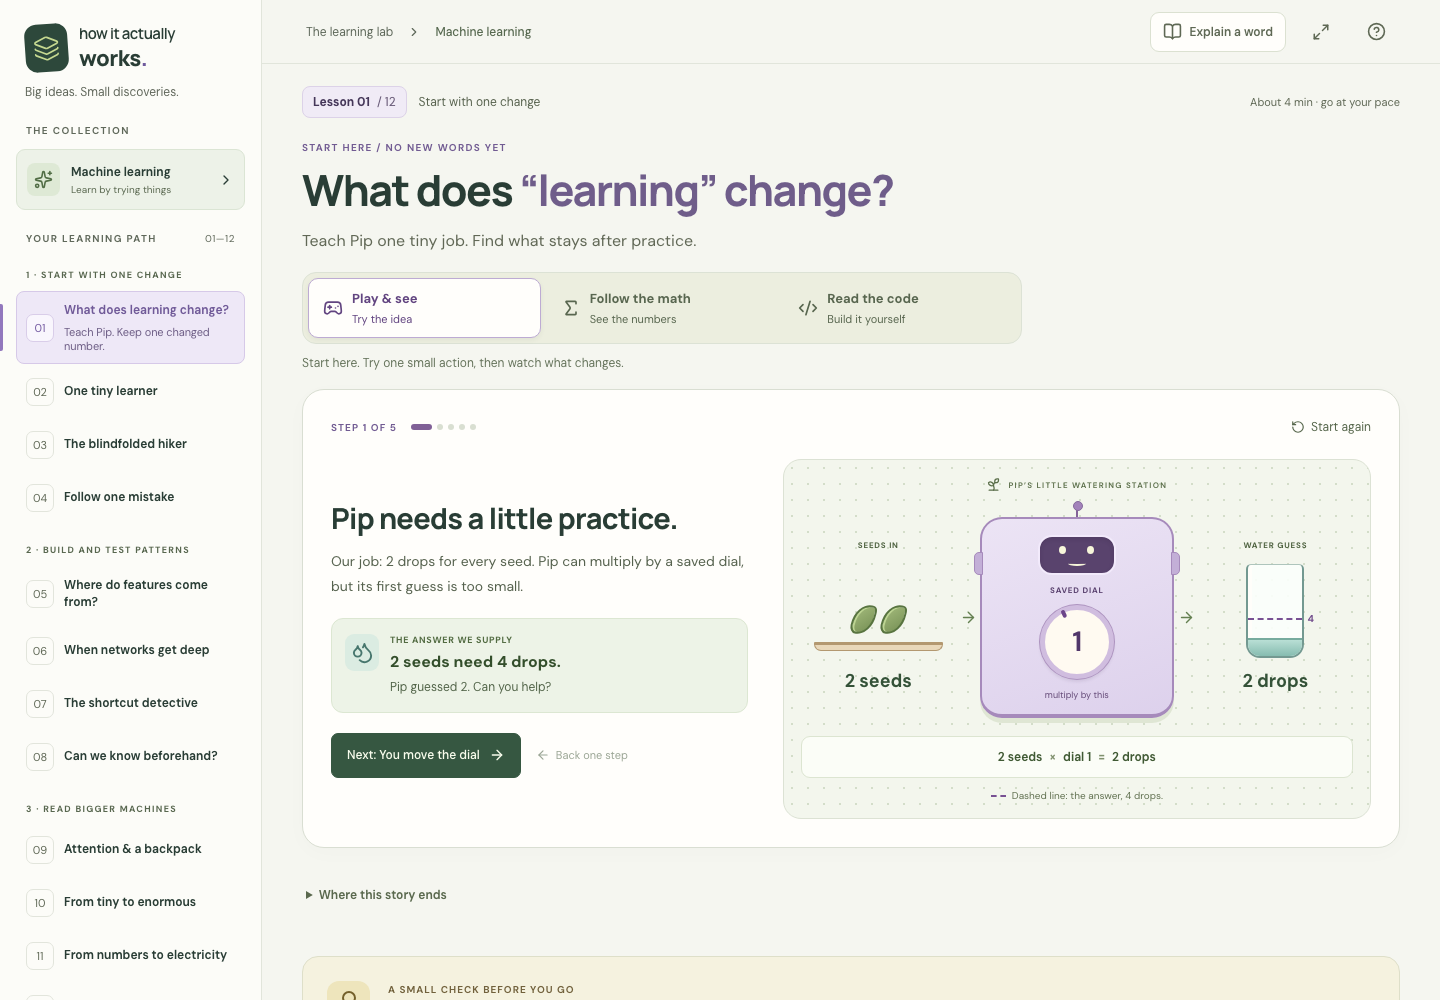
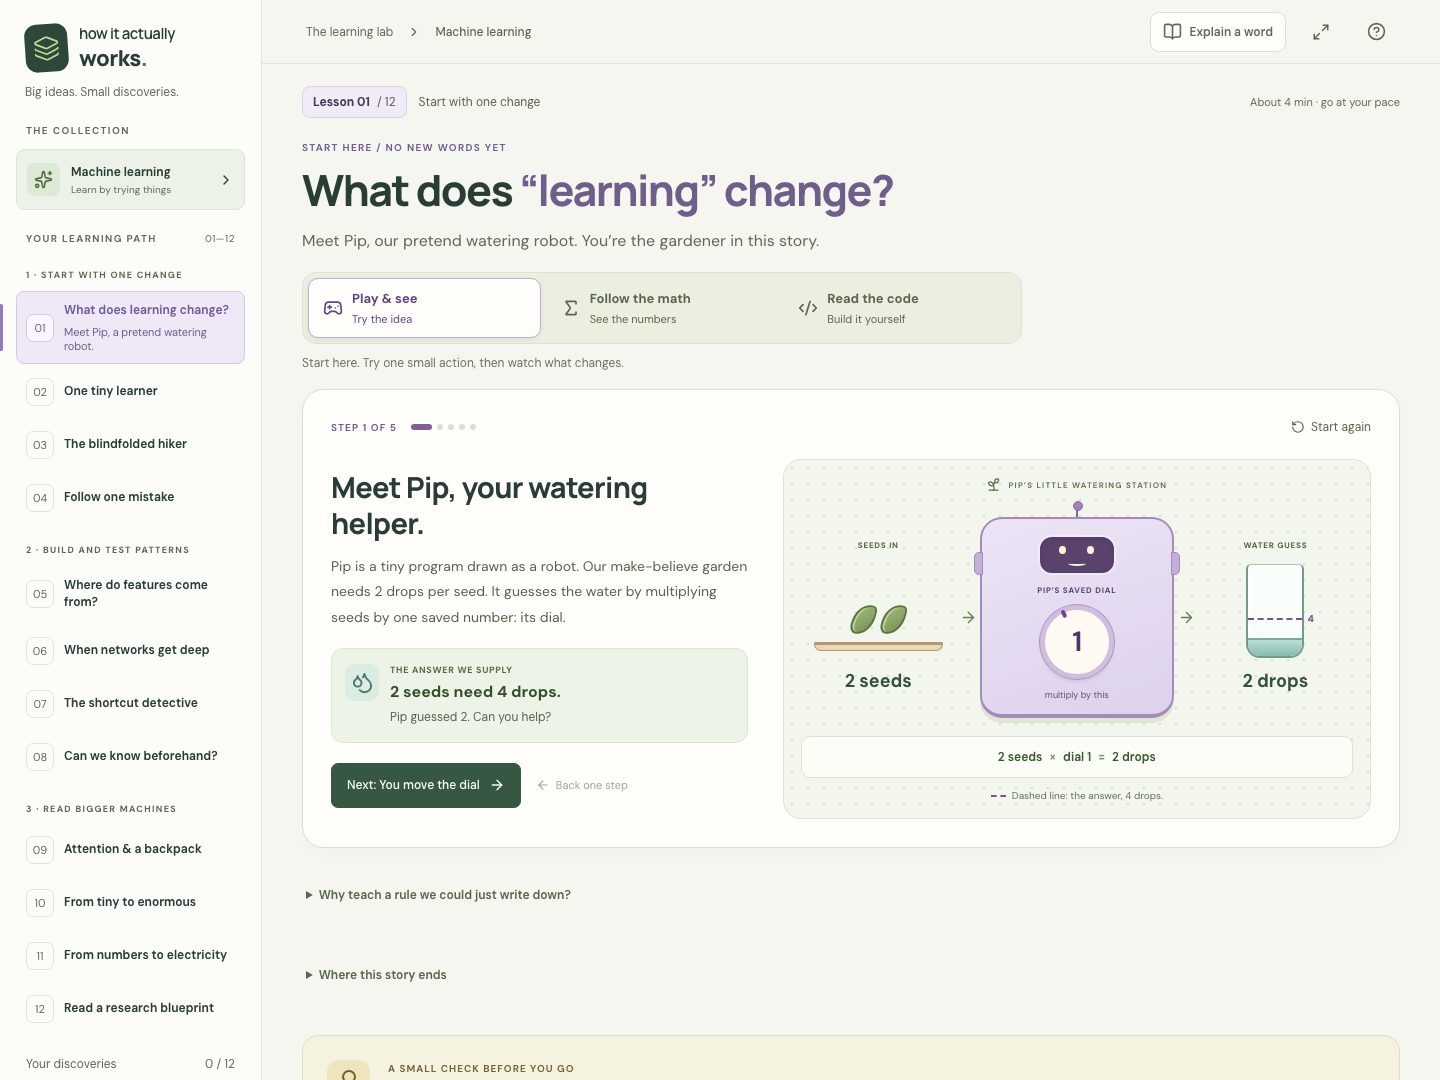
Update teaching guidance and screenshots for the clearer learning stories

diff --git a/docs/creating-lessons.md b/docs/creating-lessons.md
@@ -13,6 +13,8 @@ Write one sentence describing the uncertainty: “Why does changing this number 
 
 Begin with an action the learner already understands. Introduce its technical name after the learner can describe the action. [FirstSteps.tsx](../src/components/FirstSteps.tsx) does this with a watering dial: only after practice does it name input, target, weight, training, and inference.
 
+Introduce the story before giving its instructions. Name the character, explain what it represents, give the learner a role, and state the task and answer source. “Teach Pip” only works after “Pip is a pretend watering robot, a picture of a tiny program; you are the gardener.” Put that context in the opening, not only in an expandable limitation at the bottom. When an example changes, introduce the new task and explain its numbers again. A direct chapter link or a switch straight to math/code should still make sense.
+
 Use a familiar analogy if it helps, then connect each part to a concrete quantity. Make clear where the analogy ends. A neuron is not a little person making a decision; a transistor sketch is not a complete circuit simulator.
 
 ## Build outward from inspectable code
@@ -67,7 +69,7 @@ The shared [LessonRecap.tsx](../src/components/LessonRecap.tsx) asks one questio
 
 Use native buttons, inputs, selects, and expandable sections where possible. SVG diagrams need a title and description. If a point or node is selectable, provide a keyboard route to it; an HTML selector can complement the graphic. Do not communicate a class or state through color alone. Use text, shape, or line style as well.
 
-Check narrow layouts, long labels, zoom, keyboard focus, and reduced-motion preferences. A detailed arithmetic table may scroll within its own container; the whole page should not require horizontal scrolling. A paused or completed state should be understandable without watching the preceding animation.
+Check narrow layouts, long labels, zoom, keyboard focus, and reduced-motion preferences. A detailed arithmetic table may scroll within its own container; the whole page should not require horizontal scrolling. Code lines must stack vertically with indentation preserved. The shared reader wraps long lines by default, offers a wrap toggle, and scrolls its source panel to the explained lines without moving the whole page. Copy must preserve the original source, excluding line numbers. A paused or completed state should be understandable without watching the preceding animation.
 
 Make the math match the moment being described. A “last update” panel needs the weight, gradient, and learning rate from that update, even if the learner subsequently moves the rate slider. Rounded values should be identified as rounded. With multiple examples, distinguish a single-example derivative from the batch average used for training.
 

diff --git a/README.md b/README.md
@@ -4,7 +4,7 @@ A hands-on field guide for the question behind the explanation: **“But what is
 
 **[Open the learning lab at learn.algolyzerlab.com](https://learn.algolyzerlab.com)** — no installation needed.
 
-The first collection opens up machine learning, starting before the technical words. Teach a pretend watering helper, keep the number it changed, and use it for another guess. Then follow that same idea through backpropagation, learned features, deep networks, and the boxes in a research paper. Each step connects a visible action to its calculation and runnable code.
+The first collection opens up machine learning, starting before the technical words. Meet Pip, a pretend watering robot that represents a tiny program. You are the gardener: supply examples, keep the number practice changes, and use it for another guess. Then follow that same idea through backpropagation, learned features, deep networks, and the boxes in a research paper. Each lesson introduces its scene, task, and the meaning of its numbers before asking you to act.
 
 ![The learning lab with visual, mathematical, and code learning modes](docs/learning-lab.png)
 
@@ -52,6 +52,8 @@ Every chapter offers these modes:
 | **Read the code**   | Walk through highlighted source lines, copy the code, and run a small implementation yourself.         |
 
 Begin with **Play & see**. Pause after one change and explain it in your own words before opening the equations. Prediction questions and short checkpoints help you find the step to revisit. Use **Explain a word** in the top bar whenever a term is unfamiliar; its searchable explanations connect the word to an example. The network and shortcut chapters also have optional free labs.
+
+**Read the code** uses numbered, indented lines that wrap on a phone. Move through the explanations to bring the relevant lines into view, or turn wrapping off to scroll within the source panel. Copy the complete runnable program without line numbers. A short JavaScript introduction is available below each example.
 
 The opening game puts the controls beside Pip's watering station. After **Practice once**, inspect the three-part record: the old guess, the comparison, and the newly saved dial. **Replay this change** highlights that completed update without training again. In the backpropagation story, large cards follow one step at a time; **Preview +0.1 on one weight** shows how a change affects the mixture, guess, and loss before you update the saved model.
 

diff --git a/docs/video-outline.md b/docs/video-outline.md
@@ -6,7 +6,7 @@ Open the lab with `make run`. Use the top-bar presentation control, increase bro
 
 ## Opening: what changed?
 
-Show Pip, two seeds, the supplied answer of four drops, and its first guess. Keep the vocabulary ordinary: a question, an answer, and a dial. Let the viewer turn the dial, then reset for the programmed practice.
+First introduce Pip: a pretend watering robot, drawn to represent a tiny computer program. The viewer is the gardener. In this make-believe garden, we choose the answer rule of two drops per seed; it is not advice about real plants. Then show two seeds, the supplied answer of four drops, and Pip's first guess. Keep the vocabulary ordinary: a question, an answer, and a dial. Let the viewer turn the dial, then reset for the programmed practice.
 
 **Narration idea:** “The machine made a guess. One stored number changed. Let’s find out why—and what that does and does not tell us about the next guess.”
 
@@ -54,7 +54,7 @@ Finish the four stops before opening **Ready to experiment? Break the rule, then
 
 ## 4. Follow one mistake
 
-**Visual story:** Start with the two input values. Step through the mixing stations and the output, then reveal the target. With the default settings, the guess is `1.25` and the answer is `2`. Follow one highlighted connection backward through the error's dependencies.
+**Visual story:** Introduce a different pretend garden helper. Its practice card contains two readings, light level `1` and soil dryness `2`, and a supplied water answer of `2`. These are made-up readings for the calculation, not a real gardening dataset. Step through the mixing stations and the output, then compare with the target. With the default settings, the guess is `1.25`. Follow one highlighted connection backward through the error's dependencies.
 
 At the weight-preview step, use **Preview +0.1 on one weight**. Follow the large cards from first weight to top mixture to guess to loss. The preview recomputes a finite change without changing the saved model. Open **Show this step’s calculation** to distinguish that experiment from the local derivative. The whole-network map is also optional.
 

diff --git a/docs/code-examples.md b/docs/code-examples.md
@@ -8,6 +8,10 @@ node examples/neural-network.mjs
 
 These examples need no Python installation, GPU, API key, or machine-learning package. The source uses ordinary numbers, arrays, and `Math`; some files also use Node's built-in facilities to print output or detect direct execution. The website's **Read the code** mode links the explanation to relevant source lines.
 
+The reader shows the filename and numbered source lines, preserving indentation. Long lines wrap to fit a phone; turn **Wrap lines** off to scroll horizontally inside the code panel. **Next part** brings the explained lines into view. **Copy code** copies the complete original program with line breaks and without line numbers. **First time reading JavaScript?** explains the basic notation. Moving between explanations does not execute the program; run the shown command in your terminal to see its output.
+
+![The code reader with numbered lines and a guided explanation](read-the-code.png)
+
 ## Choose one mechanism
 
 | File                                                                     | Calculation to inspect                                                                       |
